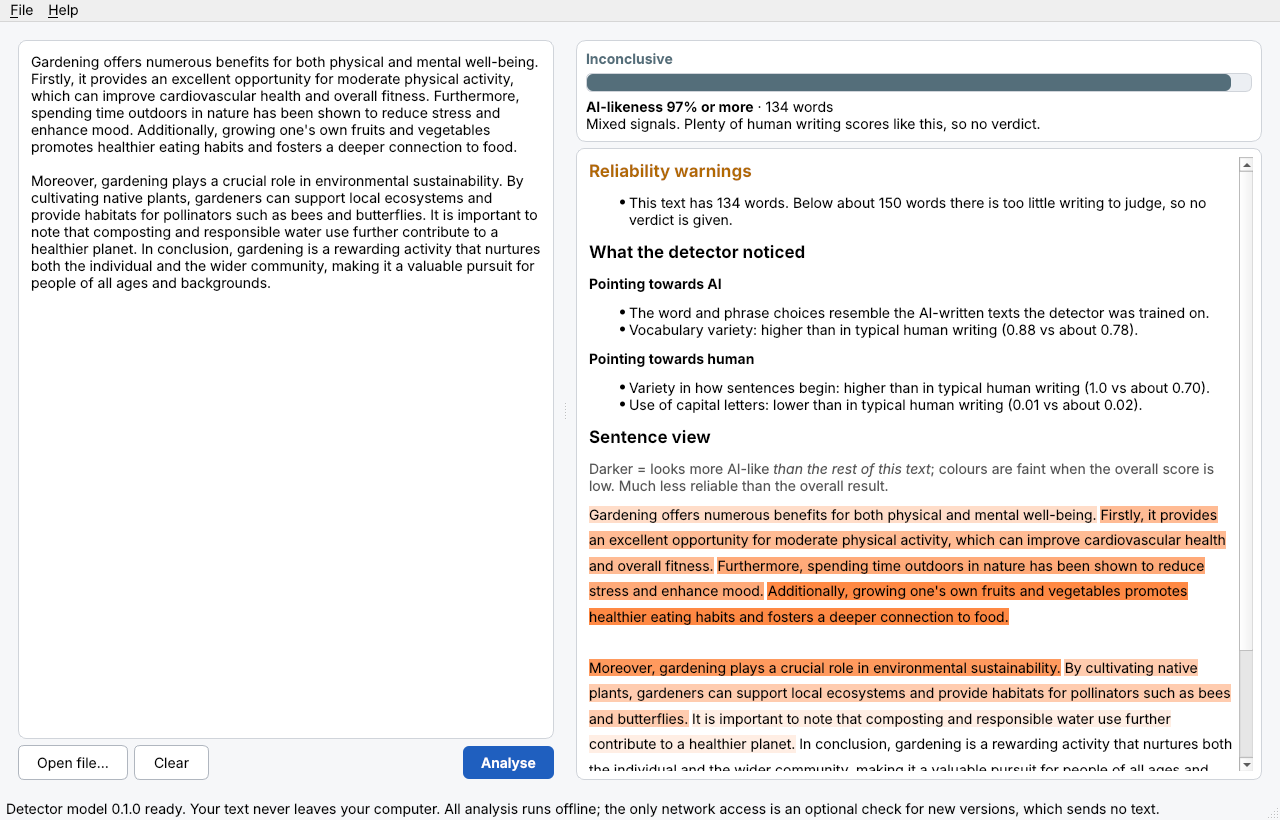
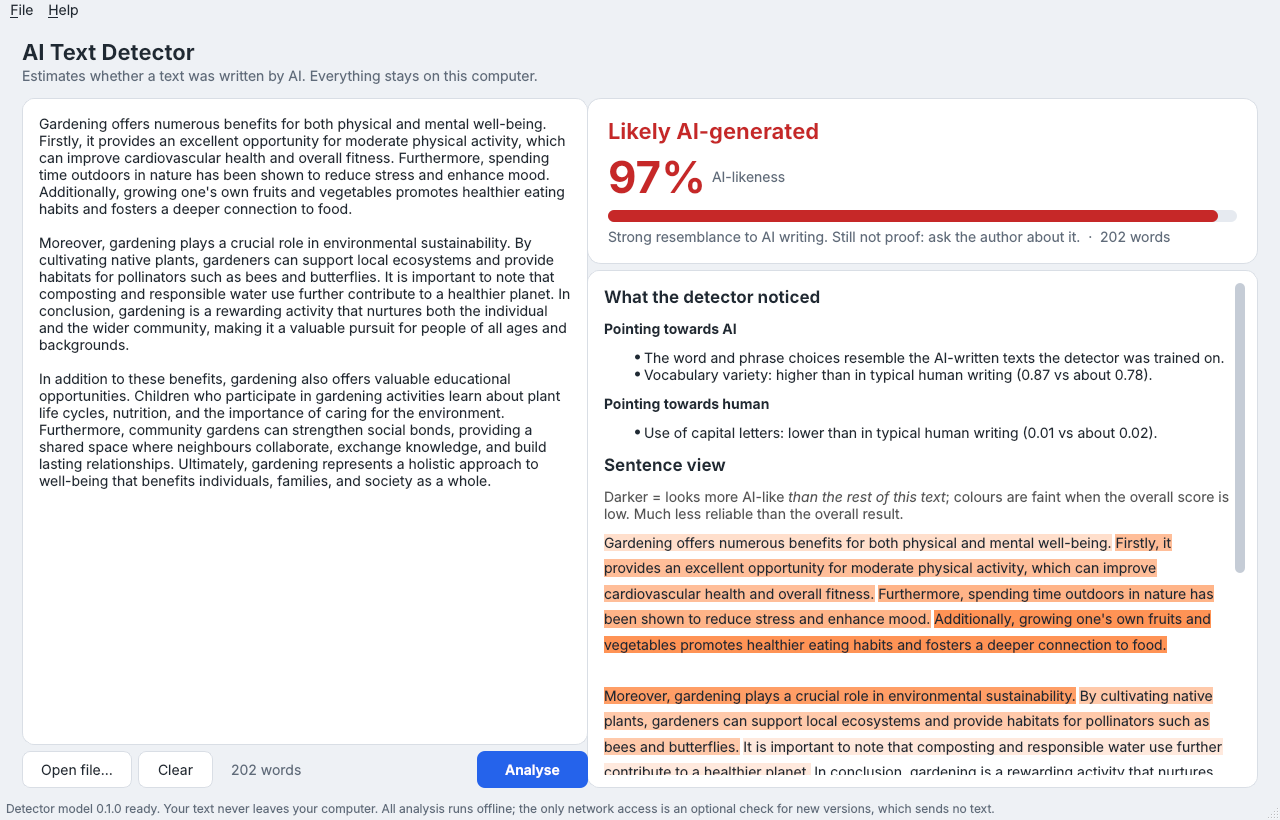
aidetect 0.1.1: readable in Windows dark mode, cleaner design
Under a dark system theme Qt handed the app light text colours, drawn on
the app's own light backgrounds, so typed text, buttons and menus were
nearly invisible. The app now uses the Fusion style with a fixed light
palette and explicit colours for every widget (regression test included).

Design: header with a one-line explanation, live word counter, result
card with a large score and plausible range, an empty-state message, and
dark text in the report. README screenshot and caption corrected.

Claude-Session: https://claude.ai/code/session_01DKxA1nWPvjPsmTXf5399wH

diff --git a/aidetect/src/aidetect/app/main.py b/aidetect/src/aidetect/app/main.py
@@ -9,8 +9,8 @@ import urllib.request
 from pathlib import Path
 from typing import Any
 
-from PySide6.QtCore import QObject, QSettings, QThread, QTimer, Signal
-from PySide6.QtGui import QAction, QDragEnterEvent, QDropEvent, QFont, QIcon
+from PySide6.QtCore import QObject, QSettings, Qt, QThread, QTimer, Signal
+from PySide6.QtGui import QAction, QColor, QDragEnterEvent, QDropEvent, QIcon, QPalette
 from PySide6.QtWidgets import (
     QApplication,
     QFileDialog,
@@ -29,7 +29,8 @@ from PySide6.QtWidgets import (
 )
 
 from aidetect import __version__
-from aidetect.detector import Detector, Result, describe_score
+from aidetect.core.text import count_words
+from aidetect.detector import Detector, Result
 from aidetect.ingest import SUPPORTED, UnsupportedFileError, read_file
 from aidetect.texts import APP_NAME, HOW_IT_WORKS, LIMITATIONS, PRIVACY
 
@@ -45,18 +46,71 @@ BAND_NOTES = {
     "inconclusive": "Mixed signals. Plenty of human writing scores like this, so no verdict.",
     "likely_human": "Little resemblance to AI writing. This does not prove a person wrote it.",
 }
-STYLE = """
-QWidget { font-size: 14px; }
-QMainWindow, QWidget#root { background: #f6f7f9; }
-QTextEdit, QTextBrowser { background: white; border: 1px solid #d0d4da; border-radius: 8px;
-                          padding: 8px; }
-QPushButton { padding: 8px 18px; border-radius: 6px; border: 1px solid #b0b6bf; background: white; }
-QPushButton#primary { background: #1f5fbf; color: white; border: none; font-weight: 600; }
-QPushButton#primary:disabled { background: #9db4d8; }
-QFrame#card { background: white; border: 1px solid #d0d4da; border-radius: 10px; }
-QProgressBar { border: 1px solid #d0d4da; border-radius: 6px; background: #eceff3; height: 14px;
-               text-align: center; }
+INK, MUTED, LINE, PAPER, CANVAS, ACCENT = (
+    "#1f2933",
+    "#5f6b7a",
+    "#d9dee5",
+    "#ffffff",
+    "#eef1f5",
+    "#2563eb",
+)
+# Every widget gets explicit colours, so a dark system theme (which hands Qt a
+# light text colour) can never leave light text on these light backgrounds.
+STYLE = f"""
+* {{ color: {INK}; font-size: 14px; }}
+QMainWindow, QWidget#root, QStatusBar {{ background: {CANVAS}; }}
+QStatusBar {{ color: {MUTED}; font-size: 12px; }}
+QMenuBar {{ background: {CANVAS}; }}
+QMenuBar::item:selected, QMenu::item:selected {{ background: #dbe4f3; color: {INK}; }}
+QMenu {{ background: {PAPER}; border: 1px solid {LINE}; }}
+QLabel#title {{ font-size: 22px; font-weight: 700; }}
+QLabel#subtitle, QLabel#muted {{ color: {MUTED}; }}
+QLabel#score {{ font-size: 44px; font-weight: 700; }}
+QTextEdit, QTextBrowser {{ background: {PAPER}; color: {INK}; border: 1px solid {LINE};
+    border-radius: 12px; padding: 12px; selection-background-color: #bcd3f7;
+    selection-color: {INK}; }}
+QPushButton {{ padding: 9px 18px; border-radius: 8px; border: 1px solid {LINE};
+    background: {PAPER}; color: {INK}; }}
+QPushButton:hover {{ background: #f3f6fa; }}
+QPushButton#primary {{ background: {ACCENT}; color: white; border: none; font-weight: 600;
+    padding: 10px 28px; }}
+QPushButton#primary:hover {{ background: #1d4ed8; }}
+QPushButton#primary:disabled {{ background: #9db7ec; color: white; }}
+QFrame#card {{ background: {PAPER}; border: 1px solid {LINE}; border-radius: 14px; }}
+QProgressBar {{ border: none; border-radius: 6px; background: #e6eaf0; max-height: 12px; }}
+QSplitter::handle {{ background: transparent; width: 14px; }}
+QScrollBar:vertical {{ background: transparent; width: 10px; }}
+QScrollBar::handle:vertical {{ background: #c5ccd6; border-radius: 5px; min-height: 30px; }}
+QScrollBar::add-line, QScrollBar::sub-line {{ height: 0; }}
+QMessageBox {{ background: {PAPER}; }}
 """
+
+
+def apply_theme(app: QApplication) -> None:
+    """Fixed light look on every platform, whatever the system theme."""
+    hints = app.styleHints()
+    if hasattr(hints, "setColorScheme"):  # Qt 6.8+
+        hints.setColorScheme(Qt.ColorScheme.Light)
+    app.setStyle("Fusion")
+    palette = QPalette()
+    for role, colour in (
+        (QPalette.ColorRole.Window, CANVAS),
+        (QPalette.ColorRole.WindowText, INK),
+        (QPalette.ColorRole.Base, PAPER),
+        (QPalette.ColorRole.AlternateBase, CANVAS),
+        (QPalette.ColorRole.Text, INK),
+        (QPalette.ColorRole.Button, PAPER),
+        (QPalette.ColorRole.ButtonText, INK),
+        (QPalette.ColorRole.ToolTipBase, PAPER),
+        (QPalette.ColorRole.ToolTipText, INK),
+        (QPalette.ColorRole.PlaceholderText, "#8a94a3"),
+        (QPalette.ColorRole.Highlight, "#bcd3f7"),
+        (QPalette.ColorRole.HighlightedText, INK),
+        (QPalette.ColorRole.Link, ACCENT),
+    ):
+        palette.setColor(role, QColor(colour))
+    app.setPalette(palette)
+    app.setStyleSheet(STYLE)
 
 
 def resource(name: str) -> Path:
@@ -142,45 +196,78 @@ class MainWindow(QMainWindow):
         self.analyse_button.setObjectName("primary")
         self.analyse_button.setEnabled(False)
         self.analyse_button.clicked.connect(self.run)
+        self.word_count = QLabel("0 words")
+        self.word_count.setObjectName("muted")
+        self.input.textChanged.connect(self._update_word_count)
         buttons = QHBoxLayout()
         buttons.addWidget(open_button)
         buttons.addWidget(clear_button)
+        buttons.addSpacing(12)
+        buttons.addWidget(self.word_count)
         buttons.addStretch()
         buttons.addWidget(self.analyse_button)
         left = QWidget()
         left_layout = QVBoxLayout(left)
+        left_layout.setContentsMargins(0, 0, 0, 0)
         left_layout.addWidget(self.input)
         left_layout.addLayout(buttons)
 
-        self.verdict = QLabel("Paste a text and press Analyse.")
+        self.verdict = QLabel("No text analysed yet")
+        self.verdict.setObjectName("title")
         self.verdict.setWordWrap(True)
-        self.verdict.setFont(QFont(self.font().family(), 20, QFont.Weight.Bold))
+        self.score = QLabel("")
+        self.score.setObjectName("score")
+        self.score_caption = QLabel("")
+        self.score_caption.setObjectName("muted")
         self.meter = QProgressBar()
         self.meter.setRange(0, 100)
         self.meter.setTextVisible(False)
         self.meter.hide()
-        self.detail = QLabel("")
+        self.detail = QLabel("Paste at least 150 words on the left and press Analyse.")
+        self.detail.setObjectName("muted")
         self.detail.setWordWrap(True)
         card = QFrame()
         card.setObjectName("card")
         card_layout = QVBoxLayout(card)
+        card_layout.setContentsMargins(20, 18, 20, 18)
+        score_row = QHBoxLayout()
+        score_row.addWidget(self.score)
+        score_row.addWidget(self.score_caption, 1)
         card_layout.addWidget(self.verdict)
+        card_layout.addLayout(score_row)
         card_layout.addWidget(self.meter)
         card_layout.addWidget(self.detail)
         self.report = QTextBrowser()
         self.report.setOpenExternalLinks(True)
+        self.report.setHtml(EMPTY_REPORT)
         right = QWidget()
         right_layout = QVBoxLayout(right)
+        right_layout.setContentsMargins(0, 0, 0, 0)
         right_layout.addWidget(card)
         right_layout.addWidget(self.report, 1)
+
+        title = QLabel(APP_NAME)
+        title.setObjectName("title")
+        subtitle = QLabel(
+            "Estimates whether a text was written by AI. Everything stays on this computer."
+        )
+        subtitle.setObjectName("subtitle")
+        header = QVBoxLayout()
+        header.setSpacing(2)
+        header.addWidget(title)
+        header.addWidget(subtitle)
 
         splitter = QSplitter()
         splitter.addWidget(left)
         splitter.addWidget(right)
-        splitter.setSizes([520, 660])
+        splitter.setSizes([540, 640])
         root = QWidget()
         root.setObjectName("root")
-        QVBoxLayout(root).addWidget(splitter)
+        root_layout = QVBoxLayout(root)
+        root_layout.setContentsMargins(22, 16, 22, 10)
+        root_layout.setSpacing(14)
+        root_layout.addLayout(header)
+        root_layout.addWidget(splitter, 1)
         self.setCentralWidget(root)
         self._menus()
         self.statusBar().showMessage(PRIVACY)
@@ -249,13 +336,22 @@ class MainWindow(QMainWindow):
             return
         self.statusBar().showMessage(f"Loaded {path.name}")
 
+    def _update_word_count(self) -> None:
+        n = count_words(self.input.toPlainText())
+        self.word_count.setText(
+            f"{n} words" + ("  (150+ needed for a verdict)" if 0 < n < 150 else "")
+        )
+
     def clear(self) -> None:
         self.input.clear()
         self.report.clear()
         self.meter.hide()
-        self.detail.clear()
-        self.verdict.setText("Paste a text and press Analyse.")
+        self.score.clear()
+        self.score_caption.clear()
+        self.detail.setText("Paste at least 150 words on the left and press Analyse.")
+        self.verdict.setText("No text analysed yet")
         self.verdict.setStyleSheet("")
+        self.report.setHtml(EMPTY_REPORT)
 
     def run(self) -> None:
         text = self.input.toPlainText()
@@ -269,21 +365,24 @@ class MainWindow(QMainWindow):
     def show_result(self, result: Result) -> None:
         self.analyse_button.setEnabled(True)
         self.analyse_button.setText("Analyse")
+        colour = BAND_COLOURS[result.band]
         self.verdict.setText(result.band_label)
-        self.verdict.setStyleSheet(f"color: {BAND_COLOURS[result.band]};")
-        if result.probability is not None and result.low is not None and result.high is not None:
+        self.verdict.setStyleSheet(f"color: {colour};")
+        if result.probability is not None:
+            self.score.setText(f"{result.probability:.0%}")
+            self.score.setStyleSheet(f"color: {colour};")
+            low, high = result.low or 0.0, result.high or 0.0
+            spread = f"plausible range {low:.0%}-{high:.0%}" if high - low >= 0.01 else ""
+            self.score_caption.setText(f"AI-likeness\n{spread}".rstrip())
             self.meter.setValue(round(100 * result.probability))
             self.meter.setStyleSheet(
-                "QProgressBar::chunk { background: "
-                + BAND_COLOURS[result.band]
-                + "; border-radius: 6px; }"
+                "QProgressBar::chunk { background: " + colour + "; border-radius: 6px; }"
             )
             self.meter.show()
-            note = BAND_NOTES[result.band]
-            self.detail.setText(
-                f"<b>{describe_score(result)}</b> · {result.n_words} words<br>{note}"
-            )
+            self.detail.setText(f"{BAND_NOTES[result.band]}  ·  {result.n_words} words")
         else:
+            self.score.clear()
+            self.score_caption.clear()
             self.meter.hide()
             self.detail.setText(f"{result.n_words} words")
         self.report.setHtml(render_report(result))
@@ -328,6 +427,15 @@ def _newer(candidate: str, current: str) -> bool:
     return parts(candidate) > parts(current)
 
 
+EMPTY_REPORT = (
+    f"<div style='color:{MUTED}; margin-top:40px; text-align:center'>"
+    "<p style='font-size:16px'><b>Your result will appear here.</b></p>"
+    "<p>Paste text on the left, or drop a .txt, .docx or .pdf file onto it.</p>"
+    "<p>You will see a verdict, what the detector noticed, and which sentences look most "
+    "AI-like.</p></div>"
+)
+
+
 def _heat_colour(heat: float) -> str:
     # White (relatively human-like) to orange-red (relatively AI-like).
     r, g, b = 255, round(255 - 120 * heat), round(255 - 190 * heat)
@@ -336,7 +444,7 @@ def _heat_colour(heat: float) -> str:
 
 def render_report(result: Result) -> str:
     """HTML for the result panel: warnings, reasons, heatmap, how it works."""
-    parts: list[str] = []
+    parts: list[str] = [f"<div style='color:{INK}'>"]
     warnings = [w for w in result.warnings if w.code != "always"]
     if warnings:
         items = "".join(f"<li>{html.escape(w.message)}</li>" for w in warnings)
@@ -371,6 +479,7 @@ def render_report(result: Result) -> str:
         "<p style='color:#555'><b>This is an estimate, not proof.</b> Never use it as the only "
         "basis for accusing someone. See Help → Limitations.</p>"
     )
+    parts.append("</div>")
     return "".join(parts)
 
 
@@ -445,7 +554,7 @@ def main() -> int:
     icon = resource("icon.png")
     if icon.exists():
         app.setWindowIcon(QIcon(str(icon)))
-    app.setStyleSheet(STYLE)
+    apply_theme(app)
     window = MainWindow()
     window.show()
     return app.exec()

diff --git a/aidetect/tests/test_runtime.py b/aidetect/tests/test_runtime.py
@@ -208,3 +208,25 @@ def test_app_window_renders_offscreen(detector: Detector) -> None:
     window.worker_thread.wait(5000)
     window.close()
     del app
+
+
+def test_theme_is_readable_in_system_dark_mode() -> None:
+    # Regression: under Windows dark mode Qt handed the app light text, which
+    # was drawn on the app's light backgrounds and became invisible.
+    os.environ.setdefault("QT_QPA_PLATFORM", "offscreen")
+    pytest.importorskip("PySide6")
+    from PySide6.QtGui import QColor, QPalette
+    from PySide6.QtWidgets import QApplication
+
+    from aidetect.app.main import apply_theme
+
+    app = QApplication.instance() or QApplication([])
+    dark = QPalette()
+    dark.setColor(QPalette.ColorRole.Text, QColor("#f0f0f0"))
+    dark.setColor(QPalette.ColorRole.WindowText, QColor("#f0f0f0"))
+    app.setPalette(dark)
+    apply_theme(app)
+    palette = app.palette()
+    for role in (QPalette.ColorRole.Text, QPalette.ColorRole.WindowText):
+        assert palette.color(role).lightness() < 80
+    assert palette.color(QPalette.ColorRole.Base).lightness() > 200

diff --git a/aidetect/README.md b/aidetect/README.md
@@ -14,9 +14,9 @@ or `.pdf` file, and it gives you:
 
 ![The app analysing an AI-written sample](docs/img/result-ai.png)
 
-*An AI-written sample: it scores 97% AI-likeness, but the app still says
-"Inconclusive", because it only gives an AI verdict when the evidence is very
-strong. This caution is deliberate (see accuracy below).*
+*An AI-written sample of about 200 words, judged "Likely AI-generated". The
+app only gives that verdict when the evidence is very strong; with less text,
+or text from unfamiliar sources, it often stays "Inconclusive" (see accuracy below).*
 
 > **Please read [Limitations](#limitations) before relying on a result.**
 > AI detection is guesswork with statistics. Never use this tool as the only
